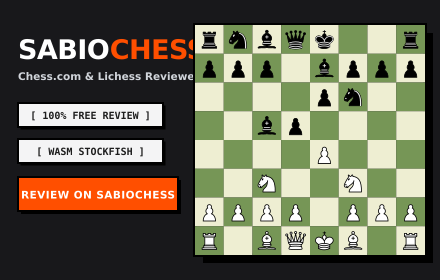
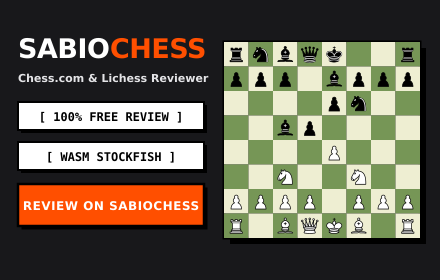
fix(assets): enhance text contrast and typography visibility on small promo tile [skip ci]

diff --git a/scripts/generate-promo-tiles.js b/scripts/generate-promo-tiles.js
@@ -8,7 +8,6 @@ function getPieceSvg(name) {
   const file = path.join(piecesDir, name + '.svg');
   if (fs.existsSync(file)) {
     let content = fs.readFileSync(file, 'utf8');
-    // Strip XML decl and outer svg tags to embed as inner group
     content = content.replace(/<\?xml.*?\?>/gi, '');
     const viewBoxMatch = content.match(/viewBox="([^"]+)"/);
     const viewBox = viewBoxMatch ? viewBoxMatch[1] : '0 0 45 45';
@@ -33,7 +32,7 @@ const pieces = {
   P: getPieceSvg('wP')
 };
 
-// Standard Opening / Tactical Board position (Ruy Lopez / Italian Game)
+// Standard Opening / Tactical Board position
 const boardLayout = [
   ['r', 'n', 'b', 'q', 'k', '', '', 'r'],
   ['p', 'p', 'p', '', 'b', 'p', 'p', 'p'],
@@ -51,9 +50,9 @@ function generateBoardSvg(boardX, boardY, boardSize) {
   <!-- Chessboard Container with Neubrutalist Shadow -->
   <g transform="translate(${boardX}, ${boardY})">
     <!-- Shadow -->
-    <rect x="8" y="8" width="${boardSize}" height="${boardSize}" fill="#000000" />
+    <rect x="6" y="6" width="${boardSize}" height="${boardSize}" fill="#000000" />
     <!-- Outer Border -->
-    <rect x="0" y="0" width="${boardSize}" height="${boardSize}" fill="#222222" stroke="#000000" stroke-width="4" />
+    <rect x="0" y="0" width="${boardSize}" height="${boardSize}" fill="#222222" stroke="#000000" stroke-width="3" />
     <!-- Squares -->
   `;
 
@@ -94,28 +93,18 @@ function generateMarqueeSvg() {
 
   return `
   <svg width="${width}" height="${height}" viewBox="0 0 ${width} ${height}" xmlns="http://www.w3.org/2000/svg">
-    <defs>
-      <style>
-        @import url('https://fonts.googleapis.com/css2?family=Archivo+Black&amp;family=Outfit:wght@600;700;800&amp;family=Space+Mono:wght@700&amp;display=swap');
-        .title { font-family: 'Archivo Black', 'Impact', sans-serif; font-size: 76px; font-weight: 900; letter-spacing: -0.02em; }
-        .subtitle { font-family: 'Outfit', -apple-system, sans-serif; font-size: 26px; font-weight: 700; fill: #D1D5DB; }
-        .pill-text { font-family: 'Space Mono', monospace; font-size: 19px; font-weight: 700; fill: #1E1E1E; }
-        .btn-text { font-family: 'Outfit', sans-serif; font-size: 22px; font-weight: 800; fill: #FFFFFF; letter-spacing: 0.05em; text-transform: uppercase; }
-      </style>
-    </defs>
-
     <!-- Background -->
     <rect width="${width}" height="${height}" fill="#18181B" />
 
     <!-- Left Content Column -->
     <g transform="translate(70, 75)">
       <!-- Title -->
-      <text x="0" y="60" class="title">
+      <text x="0" y="62" font-family="DejaVu Sans, Arial, Helvetica, sans-serif" font-size="78px" font-weight="900" letter-spacing="-1px">
         <tspan fill="#FFFFFF">SABIO</tspan><tspan fill="#FF4F00">CHESS</tspan>
       </text>
 
       <!-- Subtitle -->
-      <text x="0" y="115" class="subtitle">
+      <text x="0" y="118" font-family="DejaVu Sans, Arial, Helvetica, sans-serif" font-size="26px" font-weight="700" fill="#E4E4E7">
         Instant Game Review for Chess.com &amp; Lichess
       </text>
 
@@ -123,36 +112,36 @@ function generateMarqueeSvg() {
       <g transform="translate(0, 160)">
         <!-- Pill 1: 100% FREE -->
         <g transform="translate(0, 0)">
-          <rect x="4" y="4" width="180" height="46" fill="#000000" />
-          <rect x="0" y="0" width="180" height="46" fill="#F4F4F5" stroke="#000000" stroke-width="3" />
-          <text x="90" y="29" text-anchor="middle" class="pill-text">[ 100% FREE ]</text>
+          <rect x="5" y="5" width="180" height="48" fill="#000000" />
+          <rect x="0" y="0" width="180" height="48" fill="#FFFFFF" stroke="#000000" stroke-width="3" />
+          <text x="90" y="31" text-anchor="middle" font-family="monospace, Courier New" font-size="19px" font-weight="bold" fill="#000000">[ 100% FREE ]</text>
         </g>
 
         <!-- Pill 2: WASM STOCKFISH -->
         <g transform="translate(205, 0)">
-          <rect x="4" y="4" width="240" height="46" fill="#000000" />
-          <rect x="0" y="0" width="240" height="46" fill="#F4F4F5" stroke="#000000" stroke-width="3" />
-          <text x="120" y="29" text-anchor="middle" class="pill-text">[ WASM STOCKFISH ]</text>
+          <rect x="5" y="5" width="240" height="48" fill="#000000" />
+          <rect x="0" y="0" width="240" height="48" fill="#FFFFFF" stroke="#000000" stroke-width="3" />
+          <text x="120" y="31" text-anchor="middle" font-family="monospace, Courier New" font-size="19px" font-weight="bold" fill="#000000">[ WASM STOCKFISH ]</text>
         </g>
 
         <!-- Pill 3: AI VOICE COACH -->
         <g transform="translate(470, 0)">
-          <rect x="4" y="4" width="230" height="46" fill="#000000" />
-          <rect x="0" y="0" width="230" height="46" fill="#F4F4F5" stroke="#000000" stroke-width="3" />
-          <text x="115" y="29" text-anchor="middle" class="pill-text">[ AI VOICE COACH ]</text>
+          <rect x="5" y="5" width="230" height="48" fill="#000000" />
+          <rect x="0" y="0" width="230" height="48" fill="#FFFFFF" stroke="#000000" stroke-width="3" />
+          <text x="115" y="31" text-anchor="middle" font-family="monospace, Courier New" font-size="19px" font-weight="bold" fill="#000000">[ AI VOICE COACH ]</text>
         </g>
       </g>
 
       <!-- Orange CTA Button -->
       <g transform="translate(0, 255)">
-        <rect x="6" y="6" width="480" height="64" fill="#000000" />
-        <rect x="0" y="0" width="480" height="64" fill="#FF4F00" stroke="#000000" stroke-width="3.5" />
-        <text x="240" y="40" text-anchor="middle" class="btn-text">REVIEW ON SABIOCHESS</text>
+        <rect x="6" y="6" width="480" height="66" fill="#000000" />
+        <rect x="0" y="0" width="480" height="66" fill="#FF4F00" stroke="#000000" stroke-width="3.5" />
+        <text x="240" y="42" text-anchor="middle" font-family="DejaVu Sans, Arial, Helvetica, sans-serif" font-size="23px" font-weight="900" fill="#FFFFFF" letter-spacing="1px">REVIEW ON SABIOCHESS</text>
       </g>
 
       <!-- Trust Badges Under Button -->
-      <g transform="translate(0, 360)">
-        <text x="0" y="0" font-family="'Space Mono', monospace" font-size="14px" fill="#A1A1AA" font-weight="700">
+      <g transform="translate(0, 365)">
+        <text x="0" y="0" font-family="monospace, Courier New" font-size="15px" fill="#A1A1AA" font-weight="bold">
           • UNLIMITED REVIEWS   • 100% CLIENT-SIDE   • ZERO TRACKING
         </text>
       </g>
@@ -167,57 +156,48 @@ function generateMarqueeSvg() {
 function generateSmallSvg() {
   const width = 440;
   const height = 280;
-  const boardSize = 230;
-  const boardX = 195;
-  const boardY = 25;
+  const boardSize = 196;
+  const boardX = 224;
+  const boardY = 42;
 
   const boardSvg = generateBoardSvg(boardX, boardY, boardSize);
 
   return `
   <svg width="${width}" height="${height}" viewBox="0 0 ${width} ${height}" xmlns="http://www.w3.org/2000/svg">
-    <defs>
-      <style>
-        @import url('https://fonts.googleapis.com/css2?family=Archivo+Black&amp;family=Outfit:wght@700;800&amp;family=Space+Mono:wght@700&amp;display=swap');
-        .title-sm { font-family: 'Archivo Black', 'Impact', sans-serif; font-size: 27px; font-weight: 900; letter-spacing: -0.02em; }
-        .pill-text-sm { font-family: 'Space Mono', monospace; font-size: 10px; font-weight: 700; fill: #1E1E1E; }
-        .btn-text-sm { font-family: 'Outfit', sans-serif; font-size: 10.5px; font-weight: 800; fill: #FFFFFF; letter-spacing: 0.04em; text-transform: uppercase; }
-      </style>
-    </defs>
-
     <!-- Background -->
     <rect width="${width}" height="${height}" fill="#18181B" />
 
     <!-- Left Content Column -->
-    <g transform="translate(18, 35)">
+    <g transform="translate(18, 30)">
       <!-- Title -->
-      <text x="0" y="24" class="title-sm">
+      <text x="0" y="28" font-family="DejaVu Sans, Arial, Helvetica, sans-serif" font-size="27px" font-weight="900" letter-spacing="-0.5px">
         <tspan fill="#FFFFFF">SABIO</tspan><tspan fill="#FF4F00">CHESS</tspan>
       </text>
 
       <!-- Subtitle -->
-      <text x="0" y="45" font-family="'Outfit', sans-serif" font-size="10.5px" font-weight="700" fill="#D1D5DB">
+      <text x="0" y="52" font-family="DejaVu Sans, Arial, Helvetica, sans-serif" font-size="11px" font-weight="bold" fill="#E4E4E7">
         Chess.com &amp; Lichess Reviewer
       </text>
 
       <!-- Pill 1: 100% FREE -->
-      <g transform="translate(0, 68)">
-        <rect x="2.5" y="2.5" width="145" height="24" fill="#000000" />
-        <rect x="0" y="0" width="145" height="24" fill="#F4F4F5" stroke="#000000" stroke-width="2" />
-        <text x="72.5" y="16" text-anchor="middle" class="pill-text-sm">[ 100% FREE REVIEW ]</text>
+      <g transform="translate(0, 72)">
+        <rect x="3" y="3" width="186" height="28" fill="#000000" />
+        <rect x="0" y="0" width="186" height="28" fill="#FFFFFF" stroke="#000000" stroke-width="2" />
+        <text x="93" y="19" text-anchor="middle" font-family="monospace, Courier New" font-size="12px" font-weight="bold" fill="#000000">[ 100% FREE REVIEW ]</text>
       </g>
 
       <!-- Pill 2: WASM STOCKFISH -->
-      <g transform="translate(0, 104)">
-        <rect x="2.5" y="2.5" width="145" height="24" fill="#000000" />
-        <rect x="0" y="0" width="145" height="24" fill="#F4F4F5" stroke="#000000" stroke-width="2" />
-        <text x="72.5" y="16" text-anchor="middle" class="pill-text-sm">[ WASM STOCKFISH ]</text>
+      <g transform="translate(0, 112)">
+        <rect x="3" y="3" width="186" height="28" fill="#000000" />
+        <rect x="0" y="0" width="186" height="28" fill="#FFFFFF" stroke="#000000" stroke-width="2" />
+        <text x="93" y="19" text-anchor="middle" font-family="monospace, Courier New" font-size="12px" font-weight="bold" fill="#000000">[ WASM STOCKFISH ]</text>
       </g>
 
       <!-- Orange CTA Button -->
-      <g transform="translate(0, 142)">
-        <rect x="3" y="3" width="160" height="34" fill="#000000" />
-        <rect x="0" y="0" width="160" height="34" fill="#FF4F00" stroke="#000000" stroke-width="2" />
-        <text x="80" y="21.5" text-anchor="middle" class="btn-text-sm">REVIEW ON SABIOCHESS</text>
+      <g transform="translate(0, 154)">
+        <rect x="3.5" y="3.5" width="186" height="42" fill="#000000" />
+        <rect x="0" y="0" width="186" height="42" fill="#FF4F00" stroke="#000000" stroke-width="2.5" />
+        <text x="93" y="26" text-anchor="middle" font-family="DejaVu Sans, Arial, Helvetica, sans-serif" font-size="12px" font-weight="900" fill="#FFFFFF" letter-spacing="0.5px">REVIEW ON SABIOCHESS</text>
       </g>
     </g>
 
@@ -253,7 +233,7 @@ async function run() {
     .removeAlpha()
     .toFile(path.join(__dirname, '../promo/small-promo-tile-440x280.png'));
 
-  console.log('Successfully generated pixel-perfect vector promo tiles!');
+  console.log('Successfully generated high-contrast vector promo tiles!');
 }
 
 run().catch(console.error);
